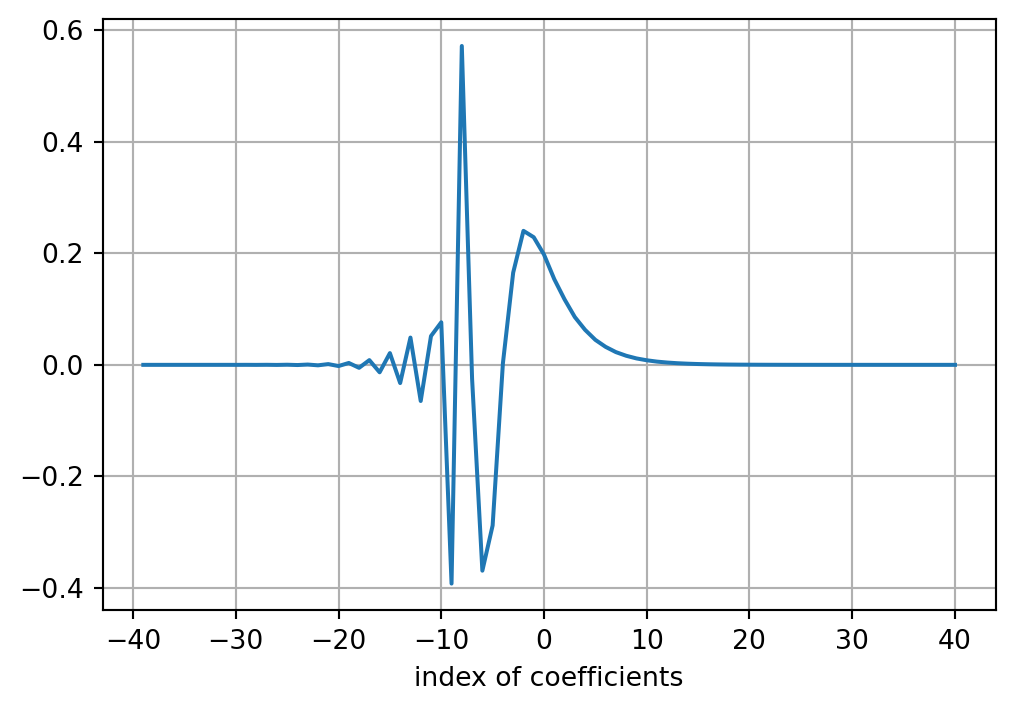
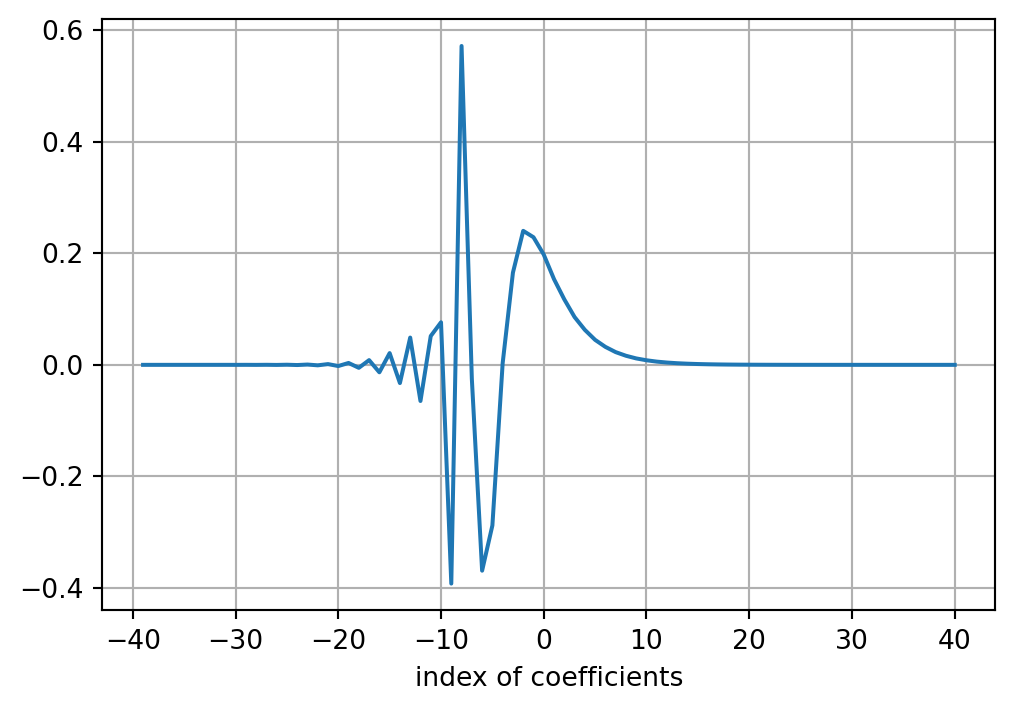
WIP
- Add remarks on ramp time

diff --git a/docs/timedomain_halfspace.html b/docs/timedomain_halfspace.html
@@ -595,7 +595,7 @@ J_{+1 / 2}(\omega t) &amp;=\sqrt{\frac{2}{\pi \omega t}} \sin (\omega t).
 <p>Let <span class="math inline">\(n_c = 80\)</span>, <span class="math inline">\(n_t = 31\)</span> sampled from the interval <span class="math inline">\(t_0 = 10^{-6} \le t \le 10^{-3}\)</span> s with 10 log-equidistant samples per decade.</p>
 <p>Then <span class="math inline">\(n_c + n_t - 1 = 110\)</span>.</p>
 <p>Let’s compute the <span class="math inline">\(\omega_n\)</span>.</p>
-<div id="c1a7840b" class="cell" data-execution_count="3">
+<div id="d35b8e9c" class="cell" data-execution_count="3">
 <details class="code-fold">
 <summary>Show the code</summary>
 <div class="code-copy-outer-scaffold"><div class="sourceCode cell-code" id="cb1"><pre class="sourceCode python code-with-copy"><code class="sourceCode python"><span id="cb1-1"><a href="#cb1-1" aria-hidden="true" tabindex="-1"></a>nt <span class="op">=</span> <span class="dv">31</span></span>
@@ -613,7 +613,7 @@ J_{+1 / 2}(\omega t) &amp;=\sqrt{\frac{2}{\pi \omega t}} \sin (\omega t).
 </section>
 <section id="numerical-experiments" class="level2" data-number="13.4">
 <h2 data-number="13.4" class="anchored" data-anchor-id="numerical-experiments"><span class="header-section-number">13.4</span> Numerical experiments</h2>
-<div id="a3fb6936" class="cell" data-execution_count="4">
+<div id="1397c990" class="cell" data-execution_count="4">
 <details class="code-fold">
 <summary>Show the code</summary>
 <div class="code-copy-outer-scaffold"><div class="sourceCode cell-code" id="cb2"><pre class="sourceCode python code-with-copy"><code class="sourceCode python"><span id="cb2-1"><a href="#cb2-1" aria-hidden="true" tabindex="-1"></a><span class="kw">def</span> gethankelfcsin():</span>
@@ -645,7 +645,7 @@ J_{+1 / 2}(\omega t) &amp;=\sqrt{\frac{2}{\pi \omega t}} \sin (\omega t).
 </details>
 </div>
 <p>We plot of the filter coefficients for <span class="math inline">\(J_{+1/2}(\omega t)\)</span>, i.e., the <em>sine</em> transform:</p>
-<div id="26c2c842" class="cell" data-execution_count="5">
+<div id="5076a2d4" class="cell" data-execution_count="5">
 <details class="code-fold">
 <summary>Show the code</summary>
 <div class="code-copy-outer-scaffold"><div class="sourceCode cell-code" id="cb3"><pre class="sourceCode python code-with-copy"><code class="sourceCode python"><span id="cb3-1"><a href="#cb3-1" aria-hidden="true" tabindex="-1"></a>fc, nc, nc0 <span class="op">=</span> gethankelfcsin()</span>
@@ -668,7 +668,7 @@ J_{+1 / 2}(\omega t) &amp;=\sqrt{\frac{2}{\pi \omega t}} \sin (\omega t).
 <li><code>Bz_analytical()</code> provides all required frequency domain solutions to be used in the sine transform,</li>
 <li><code>dBzdt_halfspace()</code> provides an analytical reference solution for the <em>impulse response</em> of a uniform halfspace.</li>
 </ul>
-<div id="90a6e296" class="cell" data-execution_count="6">
+<div id="e2740dc7" class="cell" data-execution_count="6">
 <details class="code-fold">
 <summary>Show the code</summary>
 <div class="code-copy-outer-scaffold"><div class="sourceCode cell-code" id="cb4"><pre class="sourceCode python code-with-copy"><code class="sourceCode python"><span id="cb4-1"><a href="#cb4-1" aria-hidden="true" tabindex="-1"></a><span class="kw">def</span> Bz_analytical(r, omega, sigma):</span>
@@ -718,7 +718,7 @@ Note
 <p>Note that the call of <code>Bz_analytical</code> in the code below may be replaced by a call to any appropriate function which provides the frequency domain field components of any dipole type and orientation.</p>
 </div>
 </div>
-<div id="a35ad378" class="cell" data-execution_count="7">
+<div id="40ebe197" class="cell" data-execution_count="7">
 <details class="code-fold">
 <summary>Show the code</summary>
 <div class="code-copy-outer-scaffold"><div class="sourceCode cell-code" id="cb5"><pre class="sourceCode python code-with-copy"><code class="sourceCode python"><span id="cb5-1"><a href="#cb5-1" aria-hidden="true" tabindex="-1"></a>sigma <span class="op">=</span> <span class="fl">0.01</span></span>
@@ -732,7 +732,7 @@ Note
 </details>
 </div>
 <p>Plot of the results</p>
-<div id="d11ecd4f" class="cell" data-execution_count="8">
+<div id="7ffd640a" class="cell" data-execution_count="8">
 <details class="code-fold">
 <summary>Show the code</summary>
 <div class="code-copy-outer-scaffold"><div class="sourceCode cell-code" id="cb6"><pre class="sourceCode python code-with-copy"><code class="sourceCode python"><span id="cb6-1"><a href="#cb6-1" aria-hidden="true" tabindex="-1"></a>fig, ax <span class="op">=</span> plt.subplots(<span class="dv">1</span>, <span class="dv">1</span>, figsize<span class="op">=</span>(<span class="dv">6</span>,<span class="dv">4</span>))</span>
@@ -762,7 +762,7 @@ Note
 <h2 data-number="13.5" class="anchored" data-anchor-id="example-using-empymod"><span class="header-section-number">13.5</span> Example using <code>empymod</code></h2>
 <p>With <code>empymod</code> we can model any type of dipole embedded in a layered halfspace and evaluate fields both in frequency and time domain.</p>
 <p>We consider the example introduced above and provide the fields with <code>empymod</code>.</p>
-<div id="fd822a08" class="cell" data-execution_count="9">
+<div id="28024e60" class="cell" data-execution_count="9">
 <details class="code-fold">
 <summary>Show the code</summary>
 <div class="code-copy-outer-scaffold"><div class="sourceCode cell-code" id="cb7"><pre class="sourceCode python code-with-copy"><code class="sourceCode python"><span id="cb7-1"><a href="#cb7-1" aria-hidden="true" tabindex="-1"></a><span class="im">import</span> empymod</span>
@@ -800,6 +800,25 @@ Note
 <p><img src="timedomain_halfspace_files/figure-html/cell-10-output-1.png" width="534" height="377" class="figure-img"></p>
 </figure>
 </div>
+</div>
+</div>
+<div class="callout callout-style-default callout-caution callout-titled">
+<div class="callout-header d-flex align-content-center">
+<div class="callout-icon-container">
+<i class="callout-icon"></i>
+</div>
+<div class="callout-title-container flex-fill">
+Caution
+</div>
+</div>
+<div class="callout-body-container callout-body">
+<p>All equations above result from a theoretical viewpoint.</p>
+<p>Real-world data look considerably different.</p>
+<p>The following practical limitations change the look of the transient:</p>
+<ul>
+<li>Finite ramp times, often approximated by a linear ramp for <span class="math inline">\(t&gt;0\)</span></li>
+<li>Frequency characteristic of the receiver system (including amplifier and coil).</li>
+</ul>
 </div>
 </div>
 

diff --git a/docs/index.html b/docs/index.html
@@ -7,7 +7,7 @@
 <meta name="viewport" content="width=device-width, initial-scale=1.0, user-scalable=yes">
 
 <meta name="author" content="Ralph-Uwe Börner">
-<meta name="dcterms.date" content="2026-06-16">
+<meta name="dcterms.date" content="2026-06-23">
 
 <title>Theory of Electromagnetic Methods</title>
 <style>
@@ -356,7 +356,7 @@ window.MathJax = {
     <div>
     <div class="quarto-title-meta-heading">Published</div>
     <div class="quarto-title-meta-contents">
-      <p class="date">June 16, 2026</p>
+      <p class="date">June 23, 2026</p>
     </div>
   </div>
   
